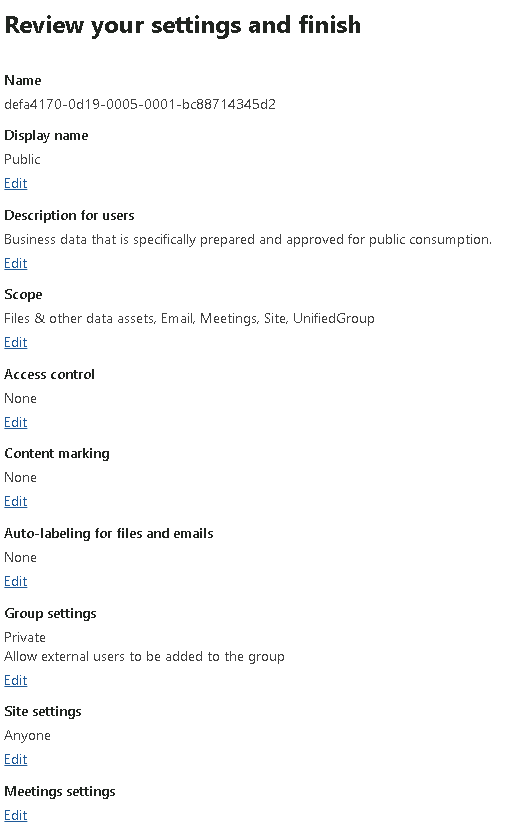
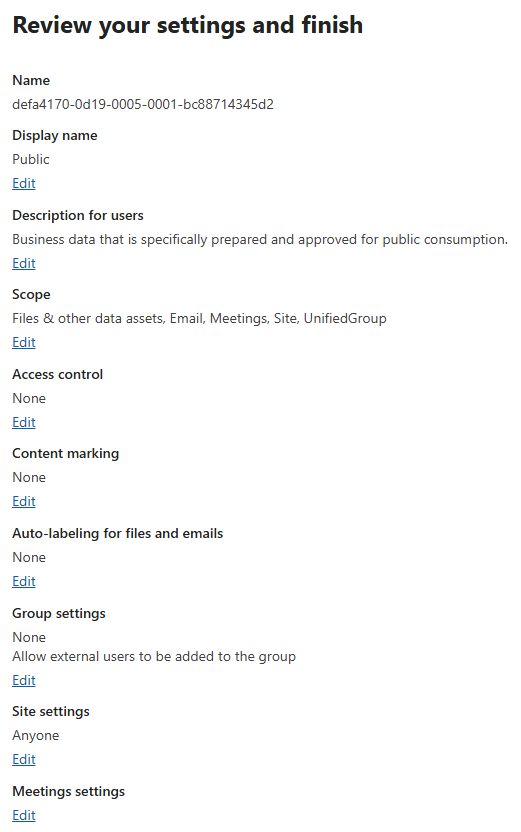
Update cSpell configuration and fix typos in governance and compliance lab instructions

diff --git a/Instructions/Labs/Governance-and-compliance.md b/Instructions/Labs/Governance-and-compliance.md
@@ -6,12 +6,12 @@
 1. [Create a data loss prevention policy](#exercise-2-create-a-data-loss-prevention-policy)
 1. [Protect sensitive data with sensitivity labels](#exercise-3-protect-sensitive-data-with-sensitivity-labels)
 1. [Data Lifecycle Management](#exercise-4-data-lifecycle-management)
-1. [Validate data loss prevention](#exercise-5-validate-data-loss-prevention) 
+1. [Validate data loss prevention](#exercise-5-validate-data-loss-prevention)
 1. [Validate information protection and retention labels](#exercise-6-validate-information-protection-and-retention-labels)
 
 ## Exercise 1: Enable audit log search
 
-In Microsoft Purview enabel audit log search.
+In Microsoft Purview enable audit log search.
 
 [Enabling audit log search](../General/Enabling-audit-log-search.md)
 
@@ -32,8 +32,8 @@ In Microsoft Purview enabel audit log search.
     * Policy settings
 
         * **Low volume of content detected GDPR enhanced** and **Low volume EU Sensitive Enhanced content found 2**
-            * Actions: 
-                * Restricts access or encrypt the content in Microsoft 365 loations.                
+            * Actions:
+                * Restricts access or encrypt the content in Microsoft 365 locations.
                     * Block people only outside of your organization.
             * User notifications
                 * On
@@ -42,7 +42,7 @@ In Microsoft Purview enabel audit log search.
                     * Owner of the SharePoint site or OneDrive account
                     * Owner of the SharePoint or OneDrive content
             * User overrides
-                * Allow users to override policy restrictions in Fabric (indlucing Power BI), Exchange, SharePoint, OneDrive, and Teams.
+                * Allow users to override policy restrictions in Fabric (including Power BI), Exchange, SharePoint, OneDrive, and Teams.
                     * Require a business justification to override
                     * Override the rule automatically if they report it as false positive
 
@@ -67,7 +67,7 @@ In Microsoft Purview enabel audit log search.
 
     [Enabling sensitivity label support in Entra ID](../General/Enabling-sensitivity-label-support-in-Entra-ID.md)
 
-1. Crate or edit the sensitivity labels without creating a policy yet.
+1. Create or edit the sensitivity labels without creating a policy yet.
 
     * Label details
         * Name and display name: **Public** (edit the existing label)
@@ -80,12 +80,10 @@ In Microsoft Purview enabel audit log search.
         * Privacy: **None**
         * Let Microsoft 365 Group owners add people outside your organization to the group as guests
     * External sharing & conditional access
-        * Control external sharing from labeld SharePoint sites: **Anyone**
+        * Control external sharing from labeled SharePoint sites: **Anyone**
     * Private teams & shared channel settings
         * Allow users to discover private teams that have this label applied
-        * Teams shared channels
-            * Private teams only
-    
+
     ![Sensitivity label public][figure 2]
     *Figure 2: Sensitivity label public*
 
@@ -103,7 +101,7 @@ In Microsoft Purview enabel audit log search.
     * Privacy & external user access
         * Privacy: **Private**
     * External sharing & conditional access
-        * Control external sharing from labeld SharePoint sites: **Only people in your organization**
+        * Control external sharing from labeled SharePoint sites: **Only people in your organization**
     * Private teams & shared channel settings
         * Allow users to discover private teams that have this label applied
         * Teams shared channels
@@ -133,7 +131,7 @@ In Microsoft Purview enabel audit log search.
     * Privacy & external user access
         * Privacy: **Private**
     * External sharing & conditional access
-        * Control external sharing from labeld SharePoint sites: **Only people in your organization**
+        * Control external sharing from labeled SharePoint sites: **Only people in your organization**
     * Private teams & shared channel settings
         * Teams shared channels
             * Internal only
@@ -202,11 +200,11 @@ In Microsoft Purview enabel audit log search.
     * Fabric and Power BI
         * Default label: Confidential
     * Name: **Contoso default**
-    
+
     ![Labeling policy Contoso default][figure 6]
     *Figure 6: Labeling policy Contoso default*
 
-    [Creating a label publishing policy ](../General/Creating-a-label-publishing-policy.md)
+    [Creating a label publishing policy](../General/Creating-a-label-publishing-policy.md)
 
 ## Exercise 4: Data Lifecycle Management
 
@@ -220,7 +218,7 @@ In Microsoft Purview enabel audit log search.
         * Setting after period: **Delete items automatically**
 
     ![Retention label Financial data][figure 7]
-    *Figure 7: Retention lable Financial data*
+    *Figure 7: Retention label Financial data*
 
     [Creating a retention label](../General/Creating-a-retention-label.md)
 
@@ -284,7 +282,7 @@ In Microsoft Purview enabel audit log search.
 
 1. In Microsoft Purview, wait until the Policy sync status for all DLP policies is **Sync completed**. This can take some time. You may want to return to this lab later, if it takes too long.
 
-1. Share both workbooks with an external user (suggestet: your own e-mail address). After a short moment, notice the icon and the quicktip (figure 8).
+1. Share both workbooks with an external user (suggested: your own e-mail address). After a short moment, notice the icon and the quicktip (figure 8).
 
     ![Contains sensitive information. Some commands aren't available.][figure 8]
     *figure 8: Contains sensitive information. Some commands aren't available.*
@@ -299,7 +297,7 @@ In Microsoft Purview enabel audit log search.
     ![Access Denied - Due to organizational policies you can't access this resource][figure 10]
     *figure 10: Due to organizational policies you can't access this resource.*
 
-    You cannot override the policy in OneDrive or SharePoint. If you want to try the override functionality, try to send the workbook with the lesser passport numbers in Outlook to an external reciepient.
+    You cannot override the policy in OneDrive or SharePoint. If you want to try the override functionality, try to send the workbook with the lesser passport numbers in Outlook to an external recipient.
 
 ## Exercise 6: Validate information protection and retention labels
 
@@ -324,4 +322,3 @@ It may take up to a week until the labels are visible. You may revisit this exer
 [figure 8]: ../../images/sensitive-content-icon-quicktip.png
 [figure 9]: ../../images/Sharing-is-limited.png
 [figure 10]: ../../images/Access-Denied-organizational-policies.png
-

diff --git a/Instructions/General/Enabling-sensitivity-label-support-in-Entra-ID.md b/Instructions/General/Enabling-sensitivity-label-support-in-Entra-ID.md
@@ -7,7 +7,7 @@
     Install-Module -Name Microsoft.Graph.Beta
     ```
 
-1. Set the $MaximumFunctionCount to the maximum to ensure proper import of the Microsoft.Graph.Beta module.$
+1. Set the $MaximumFunctionCount to the maximum to ensure proper import of the Microsoft.Graph.Beta module.
 
     ```powershell
     $MaximumFunctionCount = 32768
@@ -45,7 +45,7 @@
     ```
 
     You may have to sign in again with a global administrator.
-    
+
 1. Disconnect from Microsoft Graph.
 
     ```powershell
